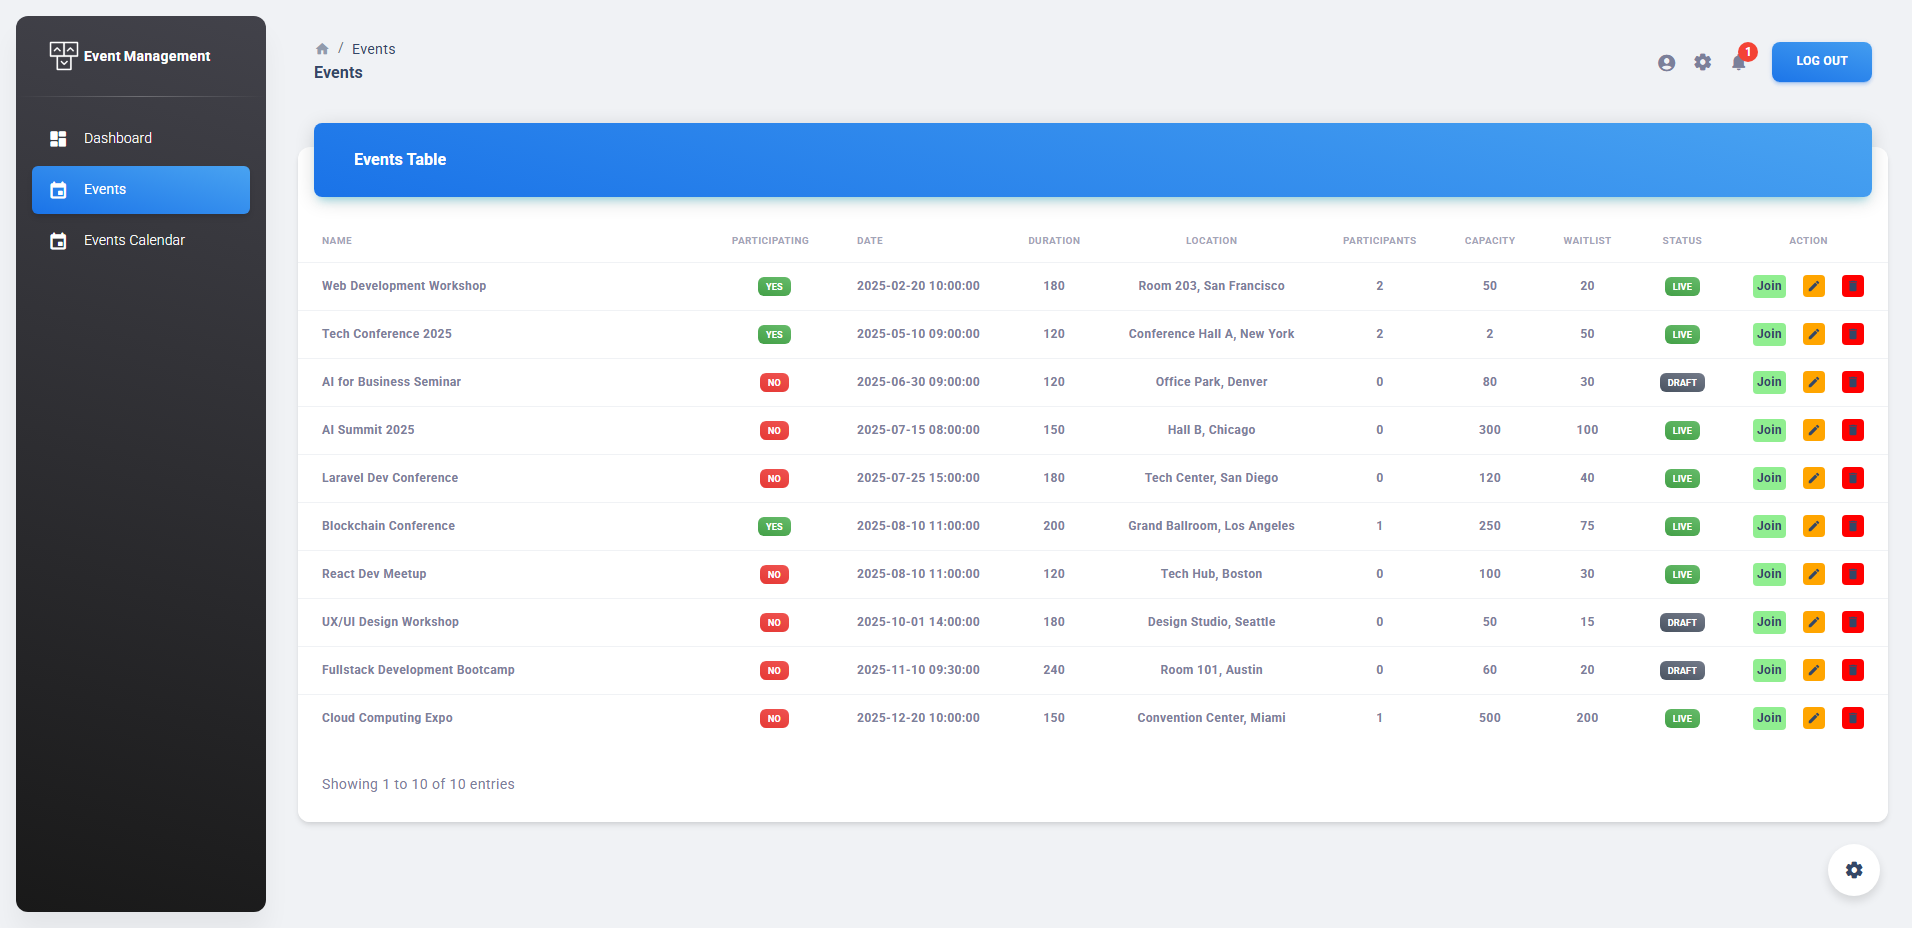
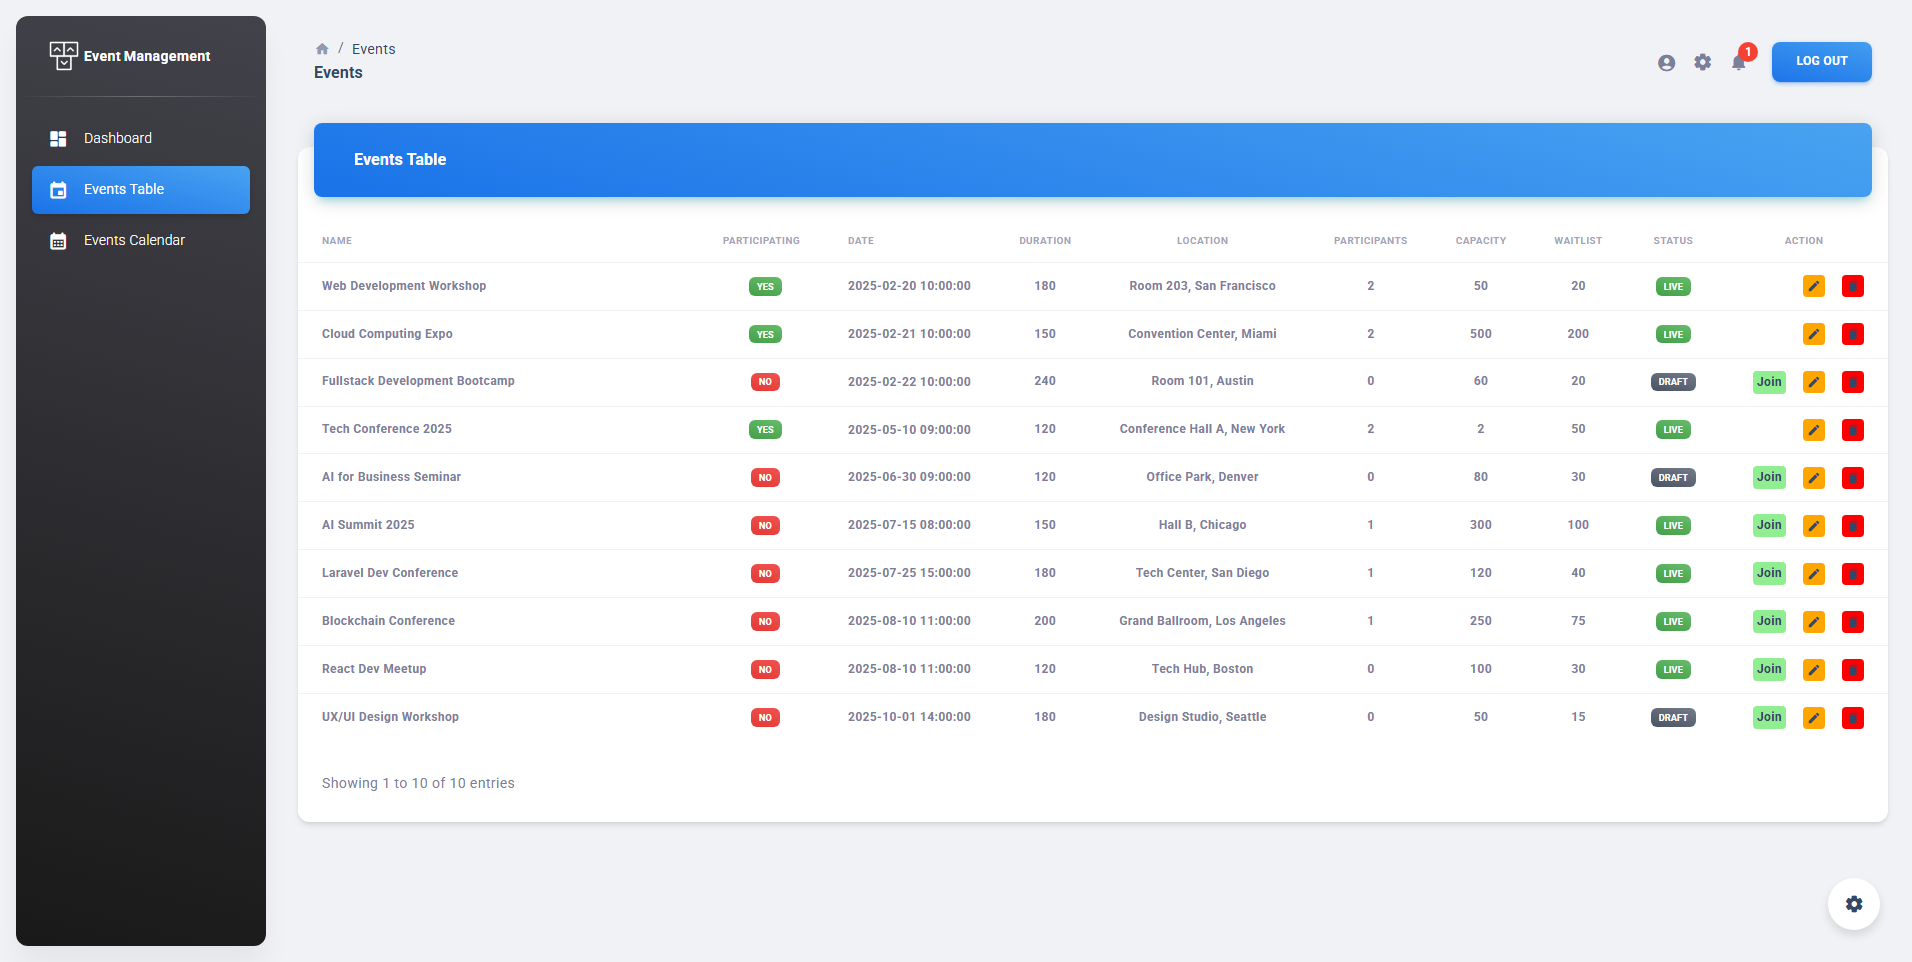
fix user permissions

diff --git a/react-material-laravel-app/src/layouts/events/data/eventsTableData.js b/react-material-laravel-app/src/layouts/events/data/eventsTableData.js
@@ -4,7 +4,7 @@ import MDBadge from "components/MDBadge";
 import { Box, Divider } from "@mui/material";
 import EditIcon from '@mui/icons-material/Edit';
 import DeleteIcon from '@mui/icons-material/Delete';
-export default function eventsTableData(events, handleOpenDialog, handleDelete,handleJoin) {
+export default function eventsTableData(events, handleOpenDialog, handleDelete, handleJoin) {
   const Job=({ title }) => (
     <MDBox lineHeight={1} textAlign="left">
       <MDTypography display="block" variant="caption" color="text" fontWeight="medium">
@@ -36,80 +36,87 @@ export default function eventsTableData(events, handleOpenDialog, handleDelete,h
       waitlist_capacity: <Job title={event.waitlist_capacity} />,
       status: (
         <MDBox ml={-1}>
-          <MDBadge badgeContent={event.status === 'published' ? 'live' : 'draft'} color={event.status === 'published' ? 'success' : 'secondary'} variant="gradient" size="sm" />
+          <MDBadge badgeContent={event.status==='published'? 'live':'draft'} color={event.status==='published'? 'success':'secondary'} variant="gradient" size="sm" />
         </MDBox>
       ),
       action: (
-        <MDBox display="flex" alignItems="center" lineHeight={1}>
+        <MDBox
+          display="flex"
+          alignItems="center"
+          justifyContent="end"
+          minWidth="120px" // Ensures consistent width
+        >
+          {!event.is_participating&&(
+            <>
+              <Box
+                sx={{
+                  backgroundColor: 'lightgreen',
+                  borderRadius: '4px',
+                  display: 'flex',
+                  alignItems: 'center',
+                  justifyContent: 'center',
+                  padding: '4px',
+                  cursor: 'pointer',
+                }}
+                onClick={() => handleJoin(event.id)}
+              >
+                <MDTypography variant="caption" fontWeight="medium">
+                  Join
+                </MDTypography>
+              </Box>
+              <Divider orientation="vertical" flexItem sx={{ mx: 1 }} />
+            </>
+          )}
 
-          <Box
-            sx={{
-              backgroundColor: 'lightgreen',
-              color: 'light',
-              borderRadius: '4px',
-              display: 'flex',
-              alignItems: 'center',
-              justifyContent: 'center',
-              padding: '4px',
-              cursor: 'pointer',
-            }}
-            onClick={() => handleJoin(event.id)}
+          {event.is_admin&&( // Only show if user is admin
+            <>
+              <Box
+                sx={{
+                  backgroundColor: 'orange',
+                  borderRadius: '4px',
+                  display: 'flex',
+                  alignItems: 'center',
+                  justifyContent: 'center',
+                  padding: '4px',
+                  cursor: 'pointer',
+                }}
+                onClick={() => handleOpenDialog(event)}
+              >
+                <EditIcon sx={{ fontSize: 18 }} />
+              </Box>
 
-          >
-            <MDTypography
-              component="a"
-              href="#"
-              variant="caption"
-              color=""
-              fontWeight="medium"
-            >
-              Join
-            </MDTypography>
-          </Box>
-          <Divider orientation="vertical" flexItem sx={{ mx: 1 }} />
-          <Box
-            sx={{
-              backgroundColor: 'orange',
-              borderRadius: '4px',
-              display: 'flex',
-              alignItems: 'center',
-              justifyContent: 'center',
-              padding: '4px',
-              cursor: 'pointer',
-            }}
-            onClick={() => handleOpenDialog(event)}
-          >
-            <EditIcon sx={{ fontSize: 18 }} />
-          </Box>
+              <Divider orientation="vertical" flexItem sx={{ mx: 1 }} />
 
-          <Divider orientation="vertical" flexItem sx={{ mx: 1 }} />
-
-          <Box
-            sx={{
-              backgroundColor: 'red',
-              color: 'light',
-              borderRadius: '4px',
-              display: 'flex',
-              alignItems: 'center',
-              justifyContent: 'center',
-              padding: '4px',
-              cursor: 'pointer',
-            }}
-            onClick={() => handleDelete(event)}
-          >
-            <DeleteIcon sx={{ fontSize: 18 }} />
-          </Box>
+              <Box
+                sx={{
+                  backgroundColor: 'red',
+                  borderRadius: '4px',
+                  display: 'flex',
+                  alignItems: 'center',
+                  justifyContent: 'center',
+                  padding: '4px',
+                  cursor: 'pointer',
+                }}
+                onClick={() => handleDelete(event)}
+              >
+                <DeleteIcon sx={{ fontSize: 18 }} />
+              </Box>
+            </>
+          )}
         </MDBox>
       ),
-      is_participating: event.is_participating ? (
+
+
+
+      is_participating: event.is_participating? (
         <MDBadge badgeContent="Yes" color="success" variant="gradient" size="sm" />
-      ) : (
+      ):(
         <MDBadge badgeContent="No" color="error" variant="gradient" size="sm" />
       ),
       styles: {
-        backgroundColor: event.is_participating ? 'rgba(76, 175, 80, 0.2)' : 'inherit',
+        backgroundColor: event.is_participating? 'rgba(76, 175, 80, 0.2)':'inherit',
       },
     })),
-    
+
   };
 }

diff --git a/react-material-laravel-app/src/layouts/events-calendar/index.js b/react-material-laravel-app/src/layouts/events-calendar/index.js
@@ -44,7 +44,7 @@ function EventCalendar() {
     try {
       await EventService.joinEvent(token, currentEvent.id);
       setSuccessMessage("Successfully joined the event.");
-      const updatedEvents = await EventService.getEvents(token); // Fetch updated events
+      const updatedEvents=await EventService.getEvents(token); // Fetch updated events
       setEvents(updatedEvents);
       handleCloseDialog();
     } catch (error) {
@@ -165,11 +165,11 @@ function EventCalendar() {
                     title: event.name,
                     start: new Date(event.date_time),
                     end: new Date(new Date(event.date_time).getTime()+event.duration*60000),
-                    is_participating: event.is_participating, 
+                    is_participating: event.is_participating,
                   }))}
                   eventPropGetter={(event) => ({
                     style: {
-                      backgroundColor: event.is_participating ? "#4caf50" : "#3174ad",
+                      backgroundColor: event.is_participating? "#4caf50":"#3174ad",
                       color: "white",
                     },
                   })}
@@ -232,24 +232,28 @@ function EventCalendar() {
             ))}
         </DialogContent>
         <DialogActions>
-
-          <Button variant="contained" color="success" onClick={handleFormSubmit}>
-            Save
-          </Button>
-          {currentEvent&&(
-            <Button variant="contained" color="error" onClick={handleDeleteEvent}>
-              Delete
-            </Button>
+          {currentEvent?.is_admin&&(
+            <>
+              <Button variant="contained" color="success" onClick={handleFormSubmit}>
+                Save
+              </Button>
+              <Button variant="contained" color="error" onClick={handleDeleteEvent}>
+                Delete
+              </Button>
+            </>
           )}
-          {currentEvent&&(
+
+          {!currentEvent?.is_participating&&(
             <Button variant="contained" color="success" onClick={handleJoinEvent}>
               Join
             </Button>
           )}
+
           <Button variant="contained" color="error" onClick={handleCloseDialog}>
             Cancel
           </Button>
         </DialogActions>
+
 
 
       </Dialog>

diff --git a/laravel-json-api/app/Http/Controllers/Api/V2/EventController.php b/laravel-json-api/app/Http/Controllers/Api/V2/EventController.php
@@ -15,38 +15,28 @@ class EventController extends Controller
     public function index()
     {
         $user = auth()->user();
+        $isAdmin = $user->hasRole('Admin');
 
-        if ($user->hasRole('Admin')) {
-            // $events = Event::withCount('participants')->get();
-            $events = Event::withCount('participants')
-                ->with(['participants' => function ($query) {
-                    $query->where('user_id', auth()->id());
-                }])
-                ->orderBy('date_time')
-                ->get()
-                ->map(function ($event) {
-                    $event->is_participating = $event->participants->isNotEmpty();
-                    unset($event->participants);
-                    return $event;
-                });
-        } else {
-            // $events = Event::where('status', 'published')->withCount('participants')->get();
-            $events = Event::where('status', 'published')
-                ->withCount('participants')
-                ->with(['participants' => function ($query) {
-                    $query->where('user_id', auth()->id());
-                }])
-                ->orderBy('date_time')
-                ->get()
-                ->map(function ($event) {
-                    $event->is_participating = $event->participants->isNotEmpty();
-                    unset($event->participants);
-                    return $event;
-                });
+        $eventsQuery = Event::withCount('participants')
+            ->with(['participants' => function ($query) {
+                $query->where('user_id', auth()->id());
+            }])
+            ->orderBy('date_time');
+
+        if (!$isAdmin) {
+            $eventsQuery->where('status', 'published');
         }
+
+        $events = $eventsQuery->get()->map(function ($event) use ($isAdmin) {
+            $event->is_participating = $event->participants->isNotEmpty();
+            $event->is_admin = $isAdmin; // Add is_admin property
+            unset($event->participants);
+            return $event;
+        });
 
         return response()->json($events);
     }
+
 
     // Show a single event
     public function show(Event $event)
